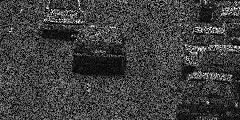
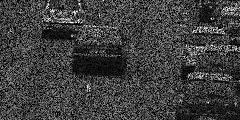
OMP complete

diff --git a/Assignment-1/Q6/get_orig.m b/Assignment-1/Q6/get_orig.m
@@ -9,20 +9,20 @@ function F = get_orig(E, C, p, eps)
  
     for i = 1:(H-p+1)
         for j = 1:(W-p+1)
-            yk = reshape(E(i:i+p-1,j:j+p-1),[p^2,1]);
-            Ak = zeros(p^2,T*p^2);
+            yk = reshape(E(i:i+p-1,j:j+p-1), [p^2,1]);
+            Ak = zeros(p^2, T*p^2);
             for t = 1:T
-                phikt = diag(reshape(C(i:i+p-1,j:j+p-1,t),[p^2,1]));
-                Ak(:,1+(t-1)*p^2:t*p^2) = phikt*psi;
+                phikt = diag(reshape(C(i:i+p-1,j:j+p-1,t), [p^2,1]));
+                Ak(:, 1+(t-1)*p^2:t*p^2) = phikt * psi;
             end
-            thetak = OMP(yk,Ak,eps);
+            thetak = OMP(yk, Ak, eps);
             for t = 1:T
                 fkt = psi*thetak(1+(t-1)*p^2:t*p^2);
-                fkt = reshape(fkt,[p,p]);
-                F(i:i+p-1,j:j+p-1,t) = F(i:i+p-1,j:j+p-1,t) + fkt;
-                F_count(i:i+p-1,j:j+p-1,t) = F_count(i:i+p-1,j:j+p-1,t) + ones(p,p); 
+                fkt = reshape(fkt, [p,p]);
+                F(i:i+p-1, j:j+p-1,t) = F(i:i+p-1, j:j+p-1,t) + fkt;
+                F_count(i:i+p-1, j:j+p-1,t) = F_count(i:i+p-1, j:j+p-1,t) + ones(p, p); 
             end
         end
     end
-    F = F./F_count;
+    F = F ./ F_count;
 end

diff --git a/Assignment-1/Q6/OMP.m b/Assignment-1/Q6/OMP.m
@@ -1,6 +1,13 @@
-function theta_k = OMP(y, A, eps)
-r = y_k;
-theta = zeros(size(A, 2),1);
-T = [];
-i = 0;
+function theta = OMP(y, A, eps)
+    r = y_k;
+    theta = zeros(size(A, 2), 1);
+    T = [];
+    A = normc(A);
+    while (norm(r) > eps)
+        [~, j] = max(abs(r' * A));
+        T = [T j];
+        A_T = A(:, T);
+        theta(T) = pinv(A_T) * y;
+        r = y - A_T * theta(T);
+    end
 end
